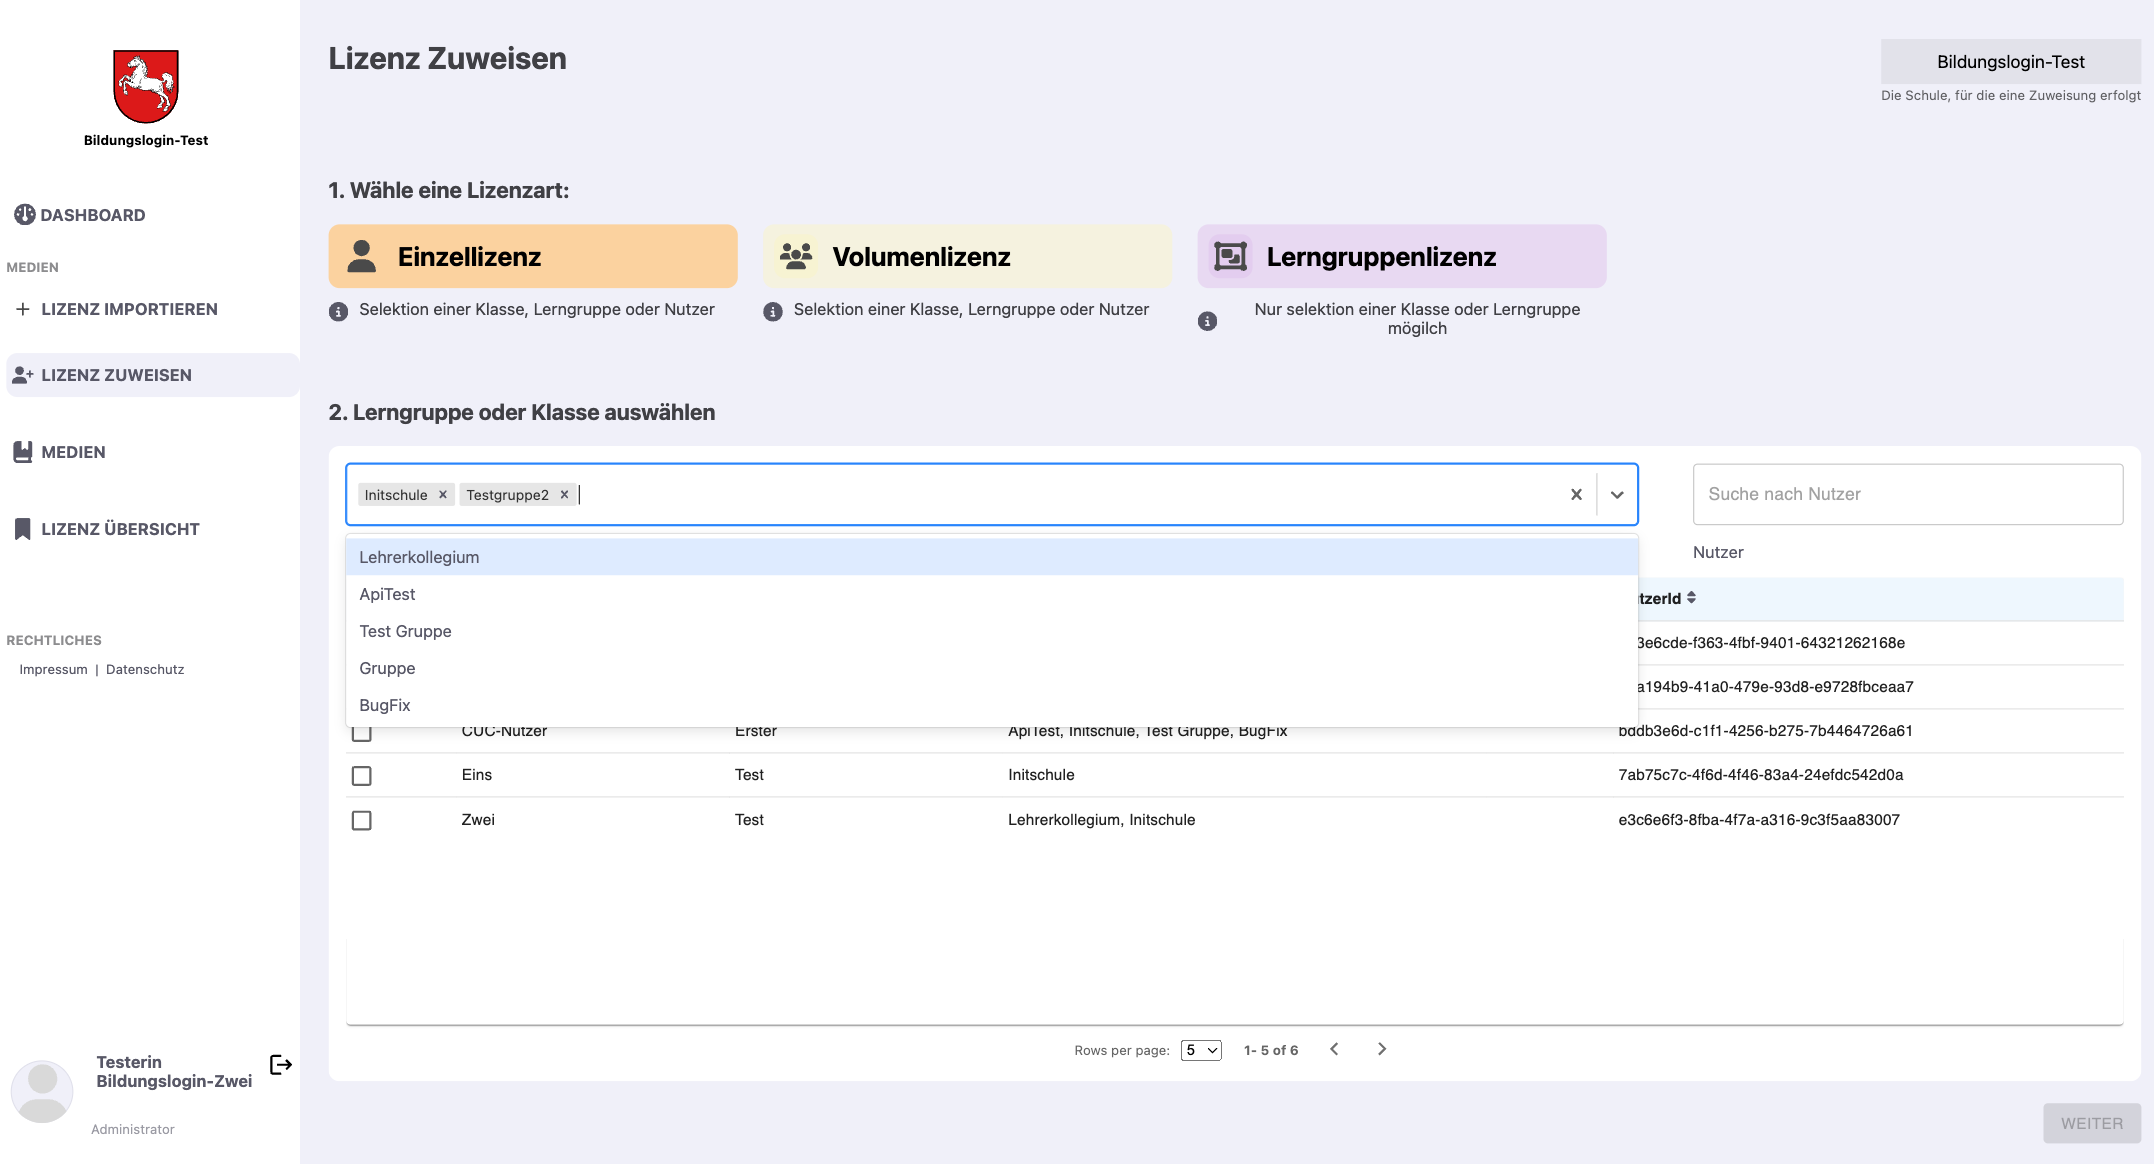
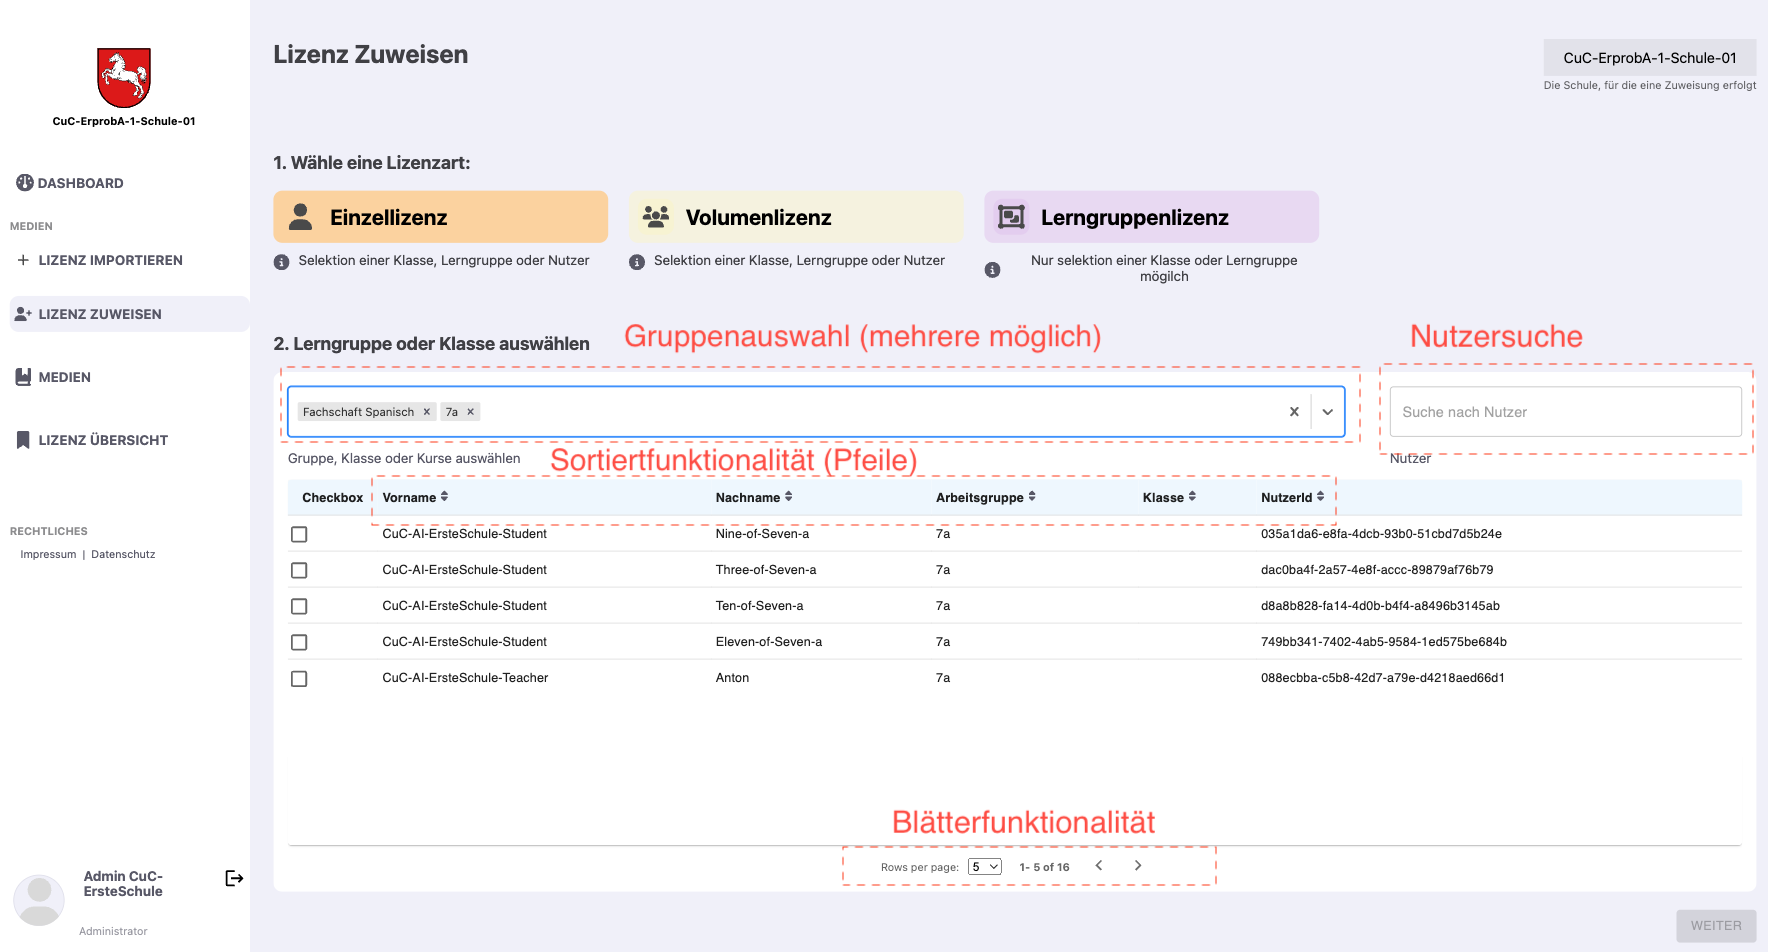
Adding help

diff --git a/pages/help.tsx b/pages/help.tsx
@@ -108,7 +108,6 @@ export default function Help() {
                 <Accordion
                     id='import'
                     expanded={selected === 'import'}
-                    onClick={() => selected !== 'import' ? setSelected('import') : setSelected('')}
                     style={{
                         display: 'Lizenzen importieren'.toLowerCase().includes(filter.toLowerCase()) ? '' : 'none'
                     }}
@@ -116,6 +115,8 @@ export default function Help() {
                     <AccordionSummary
                         expandIcon={<Expand />}
                         aria-controls="panel1a-content"
+                        onClick={() => setSelectedSection('import', 500, 100)}
+
                         id="panel1a-header"
                     >
                         <Typography
@@ -148,11 +149,11 @@ export default function Help() {
                                 2)
                             </strong>
                             &nbsp;
-                            Nach dem Klicken des Buttons öffnet sich ein Overlay, in dem man in ein Eingabefeld eine Abholnummer eingeben kann, um ein Lizenzpaket abzurufen, das mehrere Lizenzen beinhaltet. Für den Rahmen der 
+                            Nach dem Klicken des Buttons öffnet sich ein Overlay, in dem man in ein Eingabefeld eine Abholnummer eingeben kann, um ein Lizenzpaket abzurufen, das mehrere Lizenzen beinhaltet. Für den Rahmen der
                             Erprobung wird das folgende Lizenzpaket zur Verfügung gestellt:
                             &nbsp;
                             <strong>
-                                WES-5gg-20i-jZF
+                                WES-5gg-2Oi-jZF
                             </strong>
                             <br />
 
@@ -215,7 +216,6 @@ export default function Help() {
                 <Accordion
                     id='assignment'
                     expanded={selected === 'assignment'}
-                    onClick={() => selected !== 'assignment' ? setSelected('assignment') : setSelected('')}
                     style={{
                         display: 'Lizenz zuweisen'.toLowerCase().includes(filter.toLowerCase()) ? '' : 'none'
                     }}
@@ -223,6 +223,7 @@ export default function Help() {
                     <AccordionSummary
                         expandIcon={<Expand />}
                         aria-controls="panel2a-content"
+                        onClick={() => setSelectedSection('assignment', 500, 100)}
                         id="panel2a-header"
                     >
                         <Typography
@@ -268,19 +269,24 @@ export default function Help() {
                                 Einzellizenz:
                             </strong>
                             &nbsp;
-                            Hierbei wird eine Lizenz an einen oder mehrere Nutzer zugewiesen.
+                            Hierbei werden eine oder mehrere Einzellizenzen an einen oder mehrere Nutzer zugewiesen.
                             <br />
                             &ensp;
                             <strong>
                                 Volumenlizenz:
                             </strong>
                             &nbsp;
-                            Ähnlich wie bei der Einzellizenz wird hier eine Lizenz an einen oder mehrere Nutzer zugewiesen. Der Unterschied besteht darin, dass technisch die zugewiesen Lizenzen den gleichen Lizenzschlüssel aufweisen.
+                            Ähnlich wie bei der Einzellizenz werden hier eine oder mehrere Volumenlizenzen an einen oder mehrere Nutzer zugewiesen. Der Unterschied besteht darin, dass technisch die zugewiesen Lizenzen den gleichen Lizenzschlüssel aufweisen.
                             <br />
 
-
-
-
+                            &ensp;
+                            <strong>
+                                Gruppenlizenz:
+                            </strong>
+                            &nbsp;
+                            Hierbei werden eine oder mehrere Gruppenlizenzen an eine Gruppe oder mehrere Gruppen zugewiesen.
+                            <br />
+                            In der Erprobung werden lediglich Einzellizenzen verwendet, weshalb Einzellizenz standardmäßig ausgewählt ist.
 
                             <img
                                 src="/assignment_view.png"
@@ -289,39 +295,59 @@ export default function Help() {
                             />
                             <br />
 
+                            <strong>
+                                3) Filter-, Bätter- und Sortierfunktionalität
+                            </strong>
+                            <br></br>
+                            &nbsp;
+                            In der Lizenzzuweisungsansicht ist es möglich die Schüler einer Organisation nach Namen oder der Gruppenzughörigkeit zu filtern. Die Filterfunktionalität ist in den zwei Textfeldern dargestellt. Es kann über die Pfeiltasten am unteren Rand der Tabelle geblättert werden und die Anzahl der Dokumente beschränkt werden, die in der Tabellenansicht pro Seite angezeigt werden sollen. Die Sortierfunktionalität ist über die Pfeiltasten in der Tabellenüberschrift dargestellt. Diese Funktionalitäten werden in den folgenden Bild dargestellt.
+                            <br />
+                            <img
+                                src="/assignment_filter.png"
+                                alt="Lizenzen importieren"
+                                className="w-[100%]"
+                            />
+                            <br />
+                            <br />
+
+
+
+                            <strong>
+                                4)
+                            </strong>
+                            &nbsp;
+                            Im nächsten Schritt kann man über die Checkboxen in der Tabelle einen oder mehrere Nutzer auswählen, für die man eine Lizenzzuweisung vornehmen möchte. Der Button unten rechts sollte nun blaulich sein, um darzustellen, dass man kann den nächsten Schritt durchführen kann. Dieser muss geklickt werden:
+                            <br />
+                            <img
+                                src="/assignment_pick_user.png"
+                                alt="Lizenzen importieren"
+                                className="w-[100%]"
+                            />
+                            <br />
+                            <br />
+
+
+                            <strong>
+                                5)
+                            </strong>
+                            &nbsp;
+                            Im letzen Schritt wird angezeigt für welche(n) Nutzer und Medium die Zuweisung erfolgt und es kann eine Zuweisung vorgenommen werden:
+                            <br />
+                            <img
+                                src="/assignment_pick_assign.png"
+                                alt="Lizenzen importieren"
+                                className="w-[100%]"
+                            />
+                            <br />
+                            <br />
                         </Typography>
                     </AccordionDetails>
                 </Accordion>
 
-                <Accordion
-                    id='licenses'
-                    expanded={selected === 'licenses'}
-                    onClick={() => setSelectedSection('licenses', 1000, 100)}
-                    style={{
-                        display: 'Anzeige von Lizenzen'.toLowerCase().includes(filter.toLowerCase()) ? '' : 'none'
-                    }}
-                >
-                    <AccordionSummary
-                        expandIcon={<Expand />}
-                        aria-controls="panel2a-content"
-                        id="panel2a-header"
-                    >
-                        <Typography
-                            className='text-blue-500'
-                        >Anzeige von Lizenzen</Typography>
-                    </AccordionSummary>
-                    <AccordionDetails>
-                        <Typography>
-                            Lorem ipsum dolor sit amet, consectetur adipiscing elit. Suspendisse
-                            malesuada lacus ex, sit amet blandit leo lobortis eget.
-                        </Typography>
-                    </AccordionDetails>
-                </Accordion>
 
                 <Accordion
                     id='media'
                     expanded={selected === 'media'}
-                    onClick={() => setSelectedSection('media')}
                     style={{
                         display: 'Anzeige von Lizenzen'.toLowerCase().includes(filter.toLowerCase()) ? '' : 'none'
                     }}
@@ -329,6 +355,7 @@ export default function Help() {
                     <AccordionSummary
                         expandIcon={<Expand />}
                         aria-controls="panel2a-content"
+                        onClick={() => setSelectedSection('media')}
                         id="panel2a-header"
                     >
                         <Typography
@@ -337,8 +364,143 @@ export default function Help() {
                     </AccordionSummary>
                     <AccordionDetails>
                         <Typography>
-                            Lorem ipsum dolor sit amet, consectetur adipiscing elit. Suspendisse
-                            malesuada lacus ex, sit amet blandit leo lobortis eget.
+
+                            <strong>
+                                1)
+                            </strong>
+                            &nbsp;
+                            Im ersten Schritt muss entweder über die Dashboardansicht auf das Icon "Medien" geklickt werden oder in der Seitennavigation auf den Reiter "Medien" geklickt werden, wie im folgenden Bild dargestellt:
+                            <br />
+                            <img
+                                src="/media_view.png"
+                                alt="Lizenzen importieren"
+                                className="w-[100%]"
+                            />
+                            <br />
+                            <br />
+
+
+                            <strong>
+                                2)
+                            </strong>
+                            &nbsp;
+                            Anschließend gelangt man zu einer Tabellenansicht, wo man auf den entsprechenden Eintrag klicken kann:
+                            <br />
+                            <img
+                                src="/media.png"
+                                alt="Lizenzen importieren"
+                                className="w-[100%]"
+                            />
+                            <br />
+                            <br />
+
+
+                            <strong>
+                                3)
+                            </strong>
+                            &nbsp;
+                            Das Klicken führt dann zu einer Ansicht wo das Medium mit den entsprechenden Metadaten angezeigt wird. Die zugehörige Lizenz kann anschließend ausgewählt werden:
+                            <br />
+                            <img
+                                src="/media_book.png"
+                                alt="Lizenzen importieren"
+                                className="w-[100%]"
+                            />
+                            <br />
+                            <br />
+
+                            <strong>
+                                4)
+                            </strong>
+                            &nbsp;
+                            Nach der Auswahl der entsprechenden Lizenz wird angezeigt welche Nutzer diese Lizenz zugewiesen sind. Diese Lizenzen kann auch wieder entzogen werden, wie im folgenden Beispiel dargestellt:
+                            <br />
+                            <img
+                                src="/media_book_last.png"
+                                alt="Lizenzen importieren"
+                                className="w-[100%]"
+                            />
+                            <br />
+                            <br />
+                        </Typography>
+                    </AccordionDetails>
+                </Accordion>
+                <Accordion
+                    id='licenses'
+                    expanded={selected === 'licenses'}
+                    style={{
+                        display: 'Anzeige von Lizenzen'.toLowerCase().includes(filter.toLowerCase()) ? '' : 'none'
+                    }}
+                >
+                    <AccordionSummary
+                        expandIcon={<Expand />}
+                        aria-controls="panel2a-content"
+                        onClick={() => setSelectedSection('licenses', 1000, 100)}
+                        id="panel2a-header"
+                    >
+                        <Typography
+                            className='text-blue-500'
+                        >Anzeige von Lizenzen</Typography>
+                    </AccordionSummary>
+                    <AccordionDetails>
+                        <Typography>
+                            <strong>
+                                1)
+                            </strong>
+                            &nbsp;
+                            Im ersten Schritt muss entweder über die Dashboardansicht auf das Icon "Lizenz Übersicht" geklickt werden oder in der Seitennavigation auf den Reiter "Lizenz Übersicht" geklickt werden, wie im folgenden Bild dargestellt:
+                            <br />
+                            <img
+                                src="/licenses_view.png"
+                                alt="Lizenzen importieren"
+                                className="w-[100%]"
+                            />
+                            <br />
+                            <br />
+
+
+                            <strong>
+                                2)
+                            </strong>
+                            &nbsp;
+                            Anschließend gelangt man zu einer Tabellenansicht, wo man eine entsprechende Lizenz auswählen kann. Man ist in der Lage durch die Textfelder die entsprechende Lizenz zu filter oder durch die Pfeiltasten am unteren Rand der Tabelle zu blättern. Die Sortierfunktionalität ist über die Pfeiltasten in der Tabellenüberschrift dargestellt. Diese Funktionalitäten werden in den folgenden Bild dargestellt:
+                            <br />
+                            <img
+                                src="/licenses_first.png"
+                                alt="Lizenzen importieren"
+                                className="w-[100%]"
+                            />
+                            <br />
+                            <br />
+
+                            <strong>
+                                3)
+                            </strong>
+                            &nbsp;
+                            Das Klicken führt dann zu einer Ansicht wo das Medium mit den entsprechenden Metadaten angezeigt wird. Die zugehörige Lizenz kann anschließend ausgewählt werden:
+                            <br />
+                            <img
+                                src="/media_book.png"
+                                alt="Lizenzen importieren"
+                                className="w-[100%]"
+                            />
+                            <br />
+                            <br />
+
+                            <strong>
+                                4)
+                            </strong>
+                            &nbsp;
+                            Nach der Auswahl der entsprechenden Lizenz wird angezeigt welche Nutzer diese Lizenz zugewiesen sind. Diese Lizenzen kann auch wieder entzogen werden, wie im folgenden Beispiel dargestellt:
+                            <br />
+                            <img
+                                src="/media_book_last.png"
+                                alt="Lizenzen importieren"
+                                className="w-[100%]"
+                            />
+                            <br />
+                            <br />
+
                         </Typography>
                     </AccordionDetails>
                 </Accordion>

diff --git a/pages/components/LizenzZuweisungV2.tsx b/pages/components/LizenzZuweisungV2.tsx
@@ -37,7 +37,13 @@ export default function LizenzZuweisungV2({ setLicenseModal, setView }: { setLic
     const [mediumtrigger, setMediumTrigger] = useState(false)
 
     const [pickedSelect, setPickedSelect] = useState('placeholder')
+
+
     const [selectedUsersId, setSelectedUsers] = useState<any>(users)
+
+    console.log({users})
+    console.log({selectedUsersId})
+
     const [selectedGroups, setSelectedGroups] = useState<any>([])
 
     // let constraints = pickedLicenses ? (pickedLicenses![0]!.action![0].refinement as Constraint[]) : null
@@ -159,6 +165,7 @@ export default function LizenzZuweisungV2({ setLicenseModal, setView }: { setLic
         }
     }, [stepper])
 
+    
 
 
 

diff --git a/pages/components/LicenseAssignmentUser.tsx b/pages/components/LicenseAssignmentUser.tsx
@@ -46,8 +46,8 @@ export default function LicenseAssignmentUser({
 
                 const isActivated =
                     userHasThisParticularLicense &&
-                    userHasThisParticularLicense.action![0].refinement.find((item) => 
-                    item.uid === 'aktivierungsstatus' && item.rightOperand === 'true')
+                    userHasThisParticularLicense.action![0].refinement.find((item) =>
+                        item.uid === 'aktivierungsstatus' && item.rightOperand === 'true')
 
                 return (<Paper className="flex"
                     key={user.id}

diff --git a/express/controllers/licenseAssigmentsCtrl.ts b/express/controllers/licenseAssigmentsCtrl.ts
@@ -208,7 +208,7 @@ class LicenseAssignmentController {
             const requestingUser = req.session.user
             console.log({ requestingUser })
             const [sanisUserPromise, licenseAssignments] = await Promise.all([(
-                axios.get(`${process.env.GATEWAY_URL}/user_manager/users/${requestingUser?.preferred_username}`, {
+                axios.get(`${process.env.GATEWAY_URL}/user_manager/users/${requestingUser?.id}`, {
                     headers: {
                         Authorization: `Bearer ${req.session.access_token}`
                     }

diff --git a/server.ts b/server.ts
@@ -67,6 +67,7 @@ declare module 'express-session' {
         access_token: string,
         refresh_token: string,
         user?: {
+            id: string,
             sub: string,
             name: string,
             preferred_username: string,
